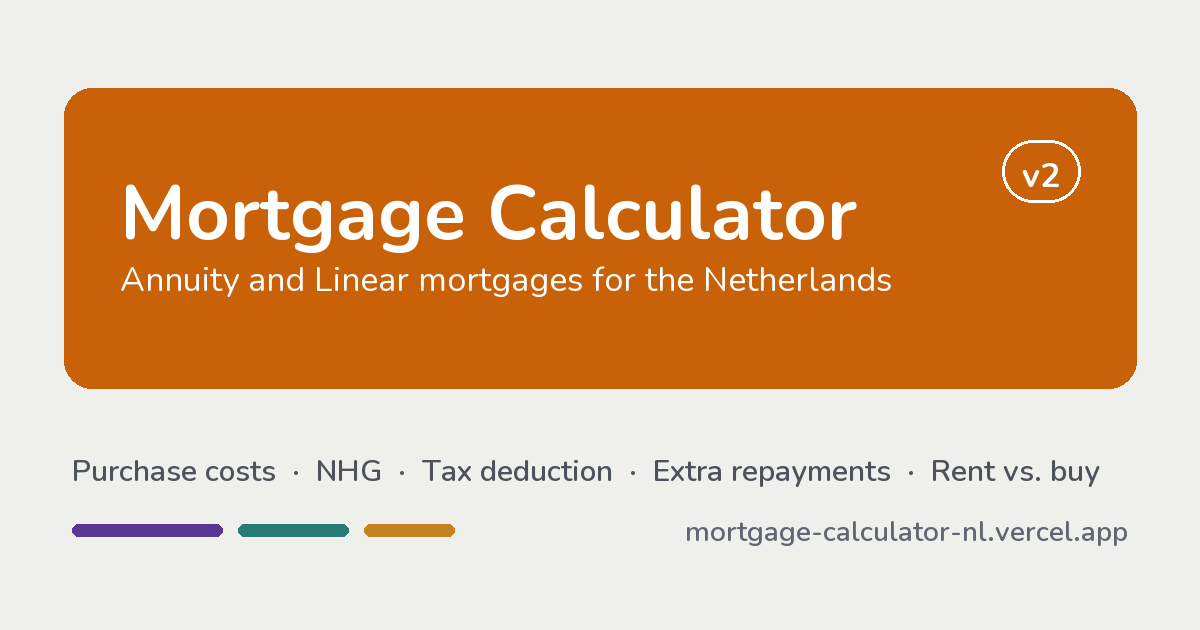
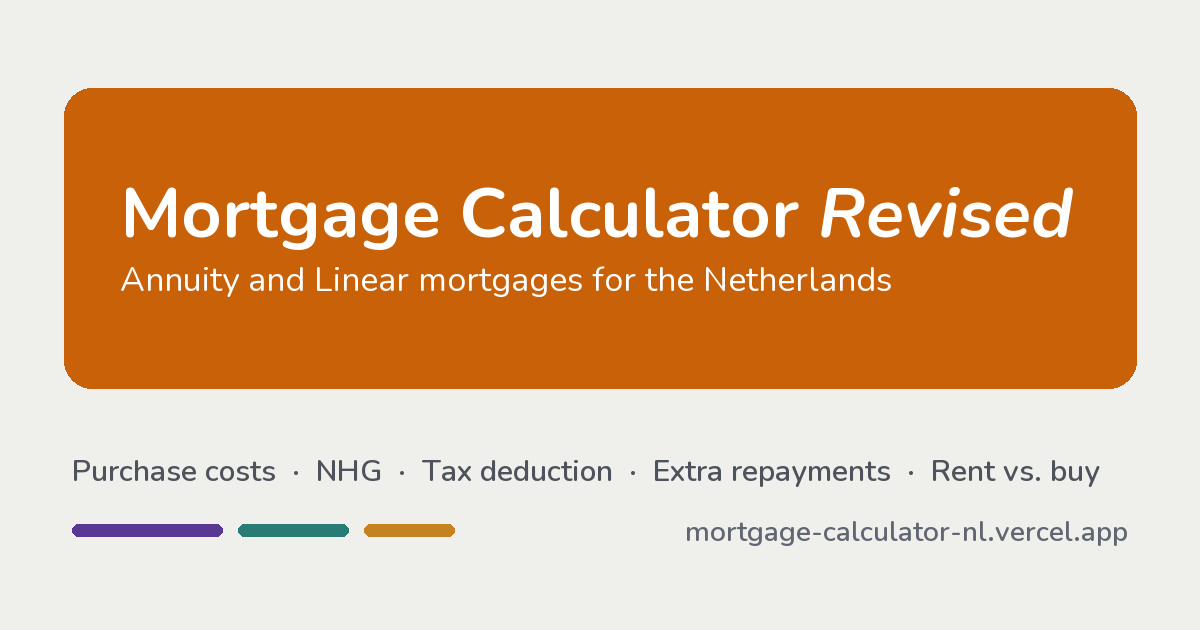
Rename the heading to "Mortgage Calculator Revised"
Uses <i> rather than <em>: this is a variant name set off typographically, not
stressed emphasis, so a screen reader should not announce it differently. The
accessible name stays "Mortgage Calculator Revised".

The webfont carried no italic faces, so the browser would have synthesised a
slant. Switched to the css2 API with the ital axis and a bold italic for the
h1, and added display=swap so text stays visible while it loads.

Carried the name through the manifest, og:site_name, the image alt text and the
structured data, and regenerated the link-preview card. That card now sets the
title the same way the page does, in true italic, rather than using a separate
badge.

Changed region(s): [[0.0925, 0.2111, 0.8942, 0.4222]]

diff --git a/index.html b/index.html
@@ -34,7 +34,7 @@
       property="og:description"
       content="Compare annuity and linear Dutch mortgages: purchase costs, NHG, tax deduction, extra repayments and a rent-vs-buy break-even."
     />
-    <meta property="og:site_name" content="Mortgage Calculator v2" />
+    <meta property="og:site_name" content="Mortgage Calculator Revised" />
     <meta
       property="og:image"
       content="https://mortgage-calculator-nl.vercel.app/og-image.png"
@@ -44,7 +44,7 @@
     <meta property="og:image:height" content="630" />
     <meta
       property="og:image:alt"
-      content="Mortgage Calculator v2 — annuity and linear mortgages for the Netherlands"
+      content="Mortgage Calculator Revised — annuity and linear mortgages for the Netherlands"
     />
 
     <meta name="twitter:card" content="summary_large_image" />
@@ -60,7 +60,7 @@
       {
         "@context": "https://schema.org",
         "@type": "WebApplication",
-        "name": "Dutch Mortgage Calculator v2",
+        "name": "Dutch Mortgage Calculator Revised",
         "url": "https://mortgage-calculator-nl.vercel.app/",
         "applicationCategory": "FinanceApplication",
         "operatingSystem": "Any",

diff --git a/src/__tests__/App-test.tsx b/src/__tests__/App-test.tsx
@@ -1258,3 +1258,19 @@ it('sets the table guide at the same size as the disclaimer below it', async () 
   // Nothing left at the old smallest size.
   expect(guide.innerHTML).not.toMatch(/\btext-xs\b/);
 });
+
+describe('page heading', () => {
+  it('sets "Revised" in italics without adding spoken emphasis', () => {
+    render(<App />);
+
+    const heading = screen.getByRole('heading', { level: 1 });
+    expect(heading).toHaveAccessibleName('Mortgage Calculator Revised');
+
+    // <i>, not <em>: a variant name set off typographically, not stressed
+    // emphasis, so a screen reader should not announce it differently.
+    const italic = heading.querySelector('i');
+    expect(italic).not.toBeNull();
+    expect(italic!.textContent).toBe('Revised');
+    expect(heading.querySelector('em')).toBeNull();
+  });
+});

diff --git a/src/App.tsx b/src/App.tsx
@@ -390,7 +390,9 @@ const App = () => {
     <div className="mx-auto max-w-5xl px-4 py-6 sm:px-6">
       <header className="mb-6 flex flex-col gap-4 rounded-lg bg-accent px-6 py-8 text-white shadow-sm sm:flex-row sm:items-start sm:justify-between">
         <div>
-          <h1 className="text-2xl font-bold sm:text-3xl">Mortgage Calculator v2</h1>
+          <h1 className="text-2xl font-bold sm:text-3xl">
+            Mortgage Calculator <i>Revised</i>
+          </h1>
           <p className="mt-1 text-white">
             Annuity and Linear mortgage calculator for the Netherlands
           </p>

diff --git a/src/__tests__/theme-test.ts b/src/__tests__/theme-test.ts
@@ -256,3 +256,16 @@ describe('type scale', () => {
     });
   });
 });
+
+describe('webfont', () => {
+  it('loads real italic faces, so italics are not browser-slanted', () => {
+    const importUrl = css.match(/@import url\('([^']+)'\)/)![1];
+
+    expect(importUrl).toContain('Nunito');
+    // ital axis, and a bold italic for the h1.
+    expect(importUrl).toMatch(/ital,wght@/);
+    expect(importUrl).toContain('1,700');
+    // Keep text visible while the font loads.
+    expect(importUrl).toContain('display=swap');
+  });
+});

diff --git a/src/index.css b/src/index.css
@@ -1,4 +1,4 @@
-@import url('https://fonts.googleapis.com/css?family=Nunito:400,600,700');
+@import url('https://fonts.googleapis.com/css2?family=Nunito:ital,wght@0,400;0,600;0,700;1,400;1,700&display=swap');
 @import 'tailwindcss';
 
 @theme {

diff --git a/scripts/generate-og-image.py b/scripts/generate-og-image.py
@@ -4,6 +4,8 @@ Run from the repo root:
 
     curl -sL -o /tmp/Nunito.ttf \
       "https://github.com/google/fonts/raw/main/ofl/nunito/Nunito%5Bwght%5D.ttf"
+    curl -sL -o /tmp/NunitoItalic.ttf \
+      "https://github.com/google/fonts/raw/main/ofl/nunito/Nunito-Italic%5Bwght%5D.ttf"
     python3 scripts/generate-og-image.py
 
 Kept as a script rather than a build step: the card changes once a year at most,
@@ -22,9 +24,11 @@ BRAND200 = (194, 197, 204)
 WHITE    = (255, 255, 255)
 CHART = [(89, 56, 147), (41, 123, 118), (196, 131, 32)]  # gross, capital, interest
 
-def font(size, weight):
-    f = ImageFont.truetype('/tmp/Nunito.ttf', size)
-    f.set_variation_by_name(weight)
+def font(size, weight, italic=False):
+    # The italic file names its instances "Bold Italic", not "Bold".
+    path = '/tmp/NunitoItalic.ttf' if italic else '/tmp/Nunito.ttf'
+    f = ImageFont.truetype(path, size)
+    f.set_variation_by_name(f'{weight} Italic' if italic else weight)
     return f
 
 img = Image.new('RGB', (W, H), CANVAS)
@@ -34,17 +38,17 @@ d = ImageDraw.Draw(img)
 M, TOP, BH = 64, 88, 300
 d.rounded_rectangle([M, TOP, W - M, TOP + BH], radius=28, fill=ACCENT)
 
-d.text((M + 56, TOP + 74), 'Mortgage Calculator', font=font(76, 'Bold'), fill=WHITE)
+# "Mortgage Calculator Revised", with Revised in true italic — the same
+# treatment as the h1 on the page, rather than a separate badge.
+title_font = font(70, 'Bold')
+italic_font = font(70, 'Bold', italic=True)
+tx = M + 56
+d.text((tx, TOP + 78), 'Mortgage Calculator ', font=title_font, fill=WHITE)
+tx += d.textlength('Mortgage Calculator ', font=title_font)
+d.text((tx, TOP + 78), 'Revised', font=italic_font, fill=WHITE)
+
 d.text((M + 56, TOP + 168), 'Annuity and Linear mortgages for the Netherlands',
        font=font(34, 'Regular'), fill=WHITE)
-
-# Version tag, top right of the block.
-tag = 'v2'
-tf = font(34, 'Bold')
-tw = d.textlength(tag, font=tf)
-d.rounded_rectangle([W - M - 56 - tw - 40, TOP + 52, W - M - 56, TOP + 52 + 62],
-                    radius=31, outline=WHITE, width=3)
-d.text((W - M - 56 - tw - 20, TOP + 64), tag, font=tf, fill=WHITE)
 
 # Feature line.
 y = TOP + BH + 62
